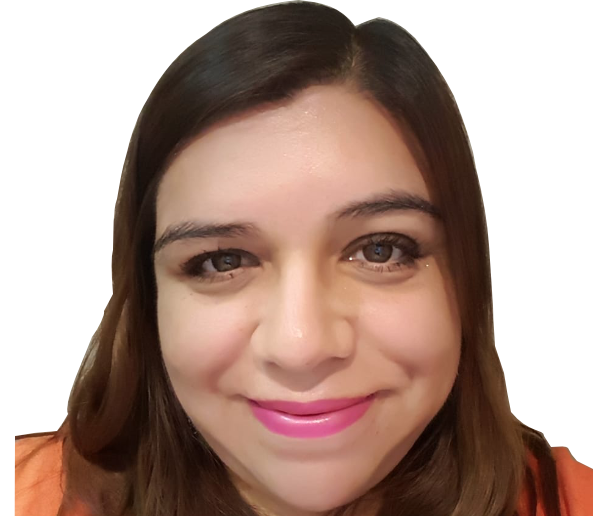
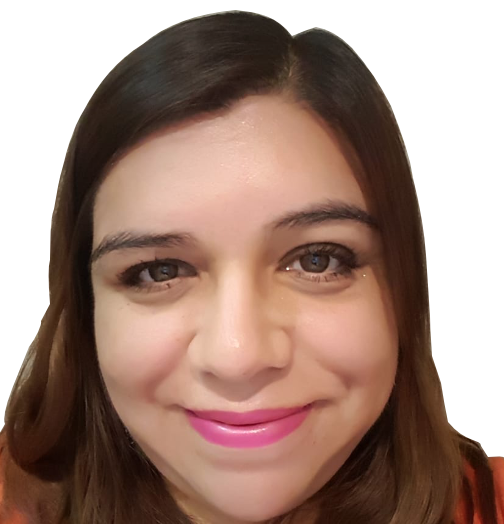
updating media queries

diff --git a/assets/css/queries/queries.scss b/assets/css/queries/queries.scss
@@ -1,53 +1,71 @@
-@import "../template";
+@import "../main/template";
 
-//less than 1475px
-@media only screen and (max-width: 1475px) {
+//less than 1800px
+@media only screen and (max-width: 1800px) {
   .wrapper {
     .col1 {
       img {
-        width: 100%;
-      }
-    }
-    .col2 {
-      //   margin-top: -150px !important;
-      .intro {
-      }
-      .next-btn {
+        width: 800px !important;
+        // position: fixed;
+        margin-top: 80px;
       }
     }
   }
 }
 
-//less than 600px
-@media only screen and (max-width: 1121px) {
+//less than 1650px
+@media only screen and (max-width: 1650px) {
+  .wrapper {
+    .col1 {
+      img {
+        width: 600px !important;
+        // position: fixed;
+        bottom: 15%;
+      }
+    }
+  }
+}
+
+//less than 13000px
+@media only screen and (max-width: 1300px) {
   body {
     overflow-y: visible;
+    overflow-x: hidden;
   }
 
   header {
+    // position: fixed;
+    width: 100%;
+    // border: 1px solid blue;
     .mobile-nav {
       width: 80px;
       display: block;
       justify-self: end;
     }
   }
+
   .wrapper {
-    display: grid;
-    grid-template-columns: 1fr;
-    padding: 0;
+    margin-top: -80px;
+    .row {
+      display: grid;
+      grid-template-columns: 1fr;
+      grid-template-rows: 1fr 1fr;
+    }
     .col1 {
       padding: 0;
+      text-align: center;
+      padding: 0 !important;
+      width: 100%;
+      margin: 0 auto;
       img {
-        // border: 1px solid green;
+        padding: 0 !important;
         width: 100%;
       }
     }
     .col2 {
       background: $bg2;
-      .intro {
-      }
-      .next-btn {
-      }
+      grid-row: 2;
+      margin: 0 auto;
     }
   }
   .timeline {

diff --git a/index.html b/index.html
@@ -21,7 +21,7 @@
       crossorigin="anonymous"
     />
     <link rel="stylesheet" href="assets/css/reset.css" />
-    <link rel="stylesheet" href="assets/css/main/main.css?v=1" />
+    <link rel="stylesheet" href="assets/css/main/main.css?v=2" />
     <link rel="stylesheet" href="assets/css/queries/queries.css" />
   </head>
   <body>
@@ -30,8 +30,8 @@
         ><img class="logo" src="assets/img/Logo.png" alt=""
       /></a>
       <!-- ////Mobile Nav -->
-      <img class="mobile-nav" src="assets/img/menubg.png" alt="" />
-      <i class="fa fa-navigation" aria-hidden="true"></i>
+      <!-- <img class="mobile-nav" src="assets/img/menubg.png" alt="" />
+      <i class="fa fa-navigation" aria-hidden="true"></i> -->
     </header>
 
     <div id="start">
@@ -43,10 +43,10 @@
       <!-- //////2011////////// -->
       <div id="year-2011">
         <div class="row">
-          <div class="col1 col-lg-6">
+          <div class="col1 col-lg-6 col-md-12">
             <img src="assets/img/dani1.png" alt="" />
           </div>
-          <div class="col2 col-lg-6">
+          <div class="col2 col-lg-6 col-md-12 col-sm-12">
             <img src="assets/img/2011.png" alt="" />
             <div class="intro">
               <p>
@@ -125,7 +125,7 @@
       <div id="year-2020">
         <div class="row">
           <div class="col1 col-lg-6">
-            <img src="assets/img/dani4.png" alt="" />
+            <img src="assets/img/dani4.png" alt="" style="margin-top: -70px" />
           </div>
           <div class="col2 col-lg-6">
             <img src="assets/img/2020.png" alt="" />

diff --git a/assets/css/queries/queries.css b/assets/css/queries/queries.css
@@ -1,12 +1,24 @@
-@media only screen and (max-width: 1475px) {
+@media only screen and (max-width: 1800px) {
   .wrapper .col1 img {
-    width: 100%;
+    width: 800px !important;
+    margin-top: 80px;
   }
 }
 
-@media only screen and (max-width: 1121px) {
+@media only screen and (max-width: 1650px) {
+  .wrapper .col1 img {
+    width: 600px !important;
+    bottom: 15%;
+  }
+}
+
+@media only screen and (max-width: 1300px) {
   body {
     overflow-y: visible;
+    overflow-x: hidden;
+  }
+  header {
+    width: 100%;
   }
   header .mobile-nav {
     width: 80px;
@@ -15,20 +27,32 @@
         justify-self: end;
   }
   .wrapper {
+    margin-top: -80px;
+  }
+  .wrapper .row {
     display: -ms-grid;
     display: grid;
     -ms-grid-columns: 1fr;
         grid-template-columns: 1fr;
-    padding: 0;
+    -ms-grid-rows: 1fr 1fr;
+        grid-template-rows: 1fr 1fr;
   }
   .wrapper .col1 {
     padding: 0;
+    text-align: center;
+    padding: 0 !important;
+    width: 100%;
+    margin: 0 auto;
   }
   .wrapper .col1 img {
+    padding: 0 !important;
     width: 100%;
   }
   .wrapper .col2 {
     background: #dae1ec;
+    -ms-grid-row: 2;
+    grid-row: 2;
+    margin: 0 auto;
   }
   .timeline {
     display: none;

diff --git a/assets/css/main/main.scss b/assets/css/main/main.scss
@@ -1,3 +1,4 @@
+//import all the variables for colors
 @import "template";
 
 body {
@@ -19,6 +20,7 @@ header {
   }
 }
 
+//font scale
 h1 {
   font-size: 3.052em;
 }
@@ -35,6 +37,7 @@ h5 {
   font-size: 1.25em;
 }
 
+//Main
 #year-2011,
 #year-2014,
 #year-2018,
@@ -44,14 +47,14 @@ h5 {
   overflow-y: hidden;
   display: none;
   .col1 {
-    padding: 20px 0;
+    padding: 20px 0 0 40px;
     img {
       width: 900px;
       z-index: 1;
     }
   }
   .col2 {
-    padding: 20px;
+    padding: 20px 40px 0 0;
     text-align: justify;
     .intro {
       padding-top: 20px;

diff --git a/assets/css/main/main.css b/assets/css/main/main.css
@@ -56,7 +56,7 @@ h5 {
 #year-2014 .col1,
 #year-2018 .col1,
 #year-2020 .col1 {
-  padding: 20px 0;
+  padding: 20px 0 0 40px;
 }
 
 #year-2011 .col1 img,
@@ -71,7 +71,7 @@ h5 {
 #year-2014 .col2,
 #year-2018 .col2,
 #year-2020 .col2 {
-  padding: 20px;
+  padding: 20px 40px 0 0;
   text-align: justify;
 }
 
